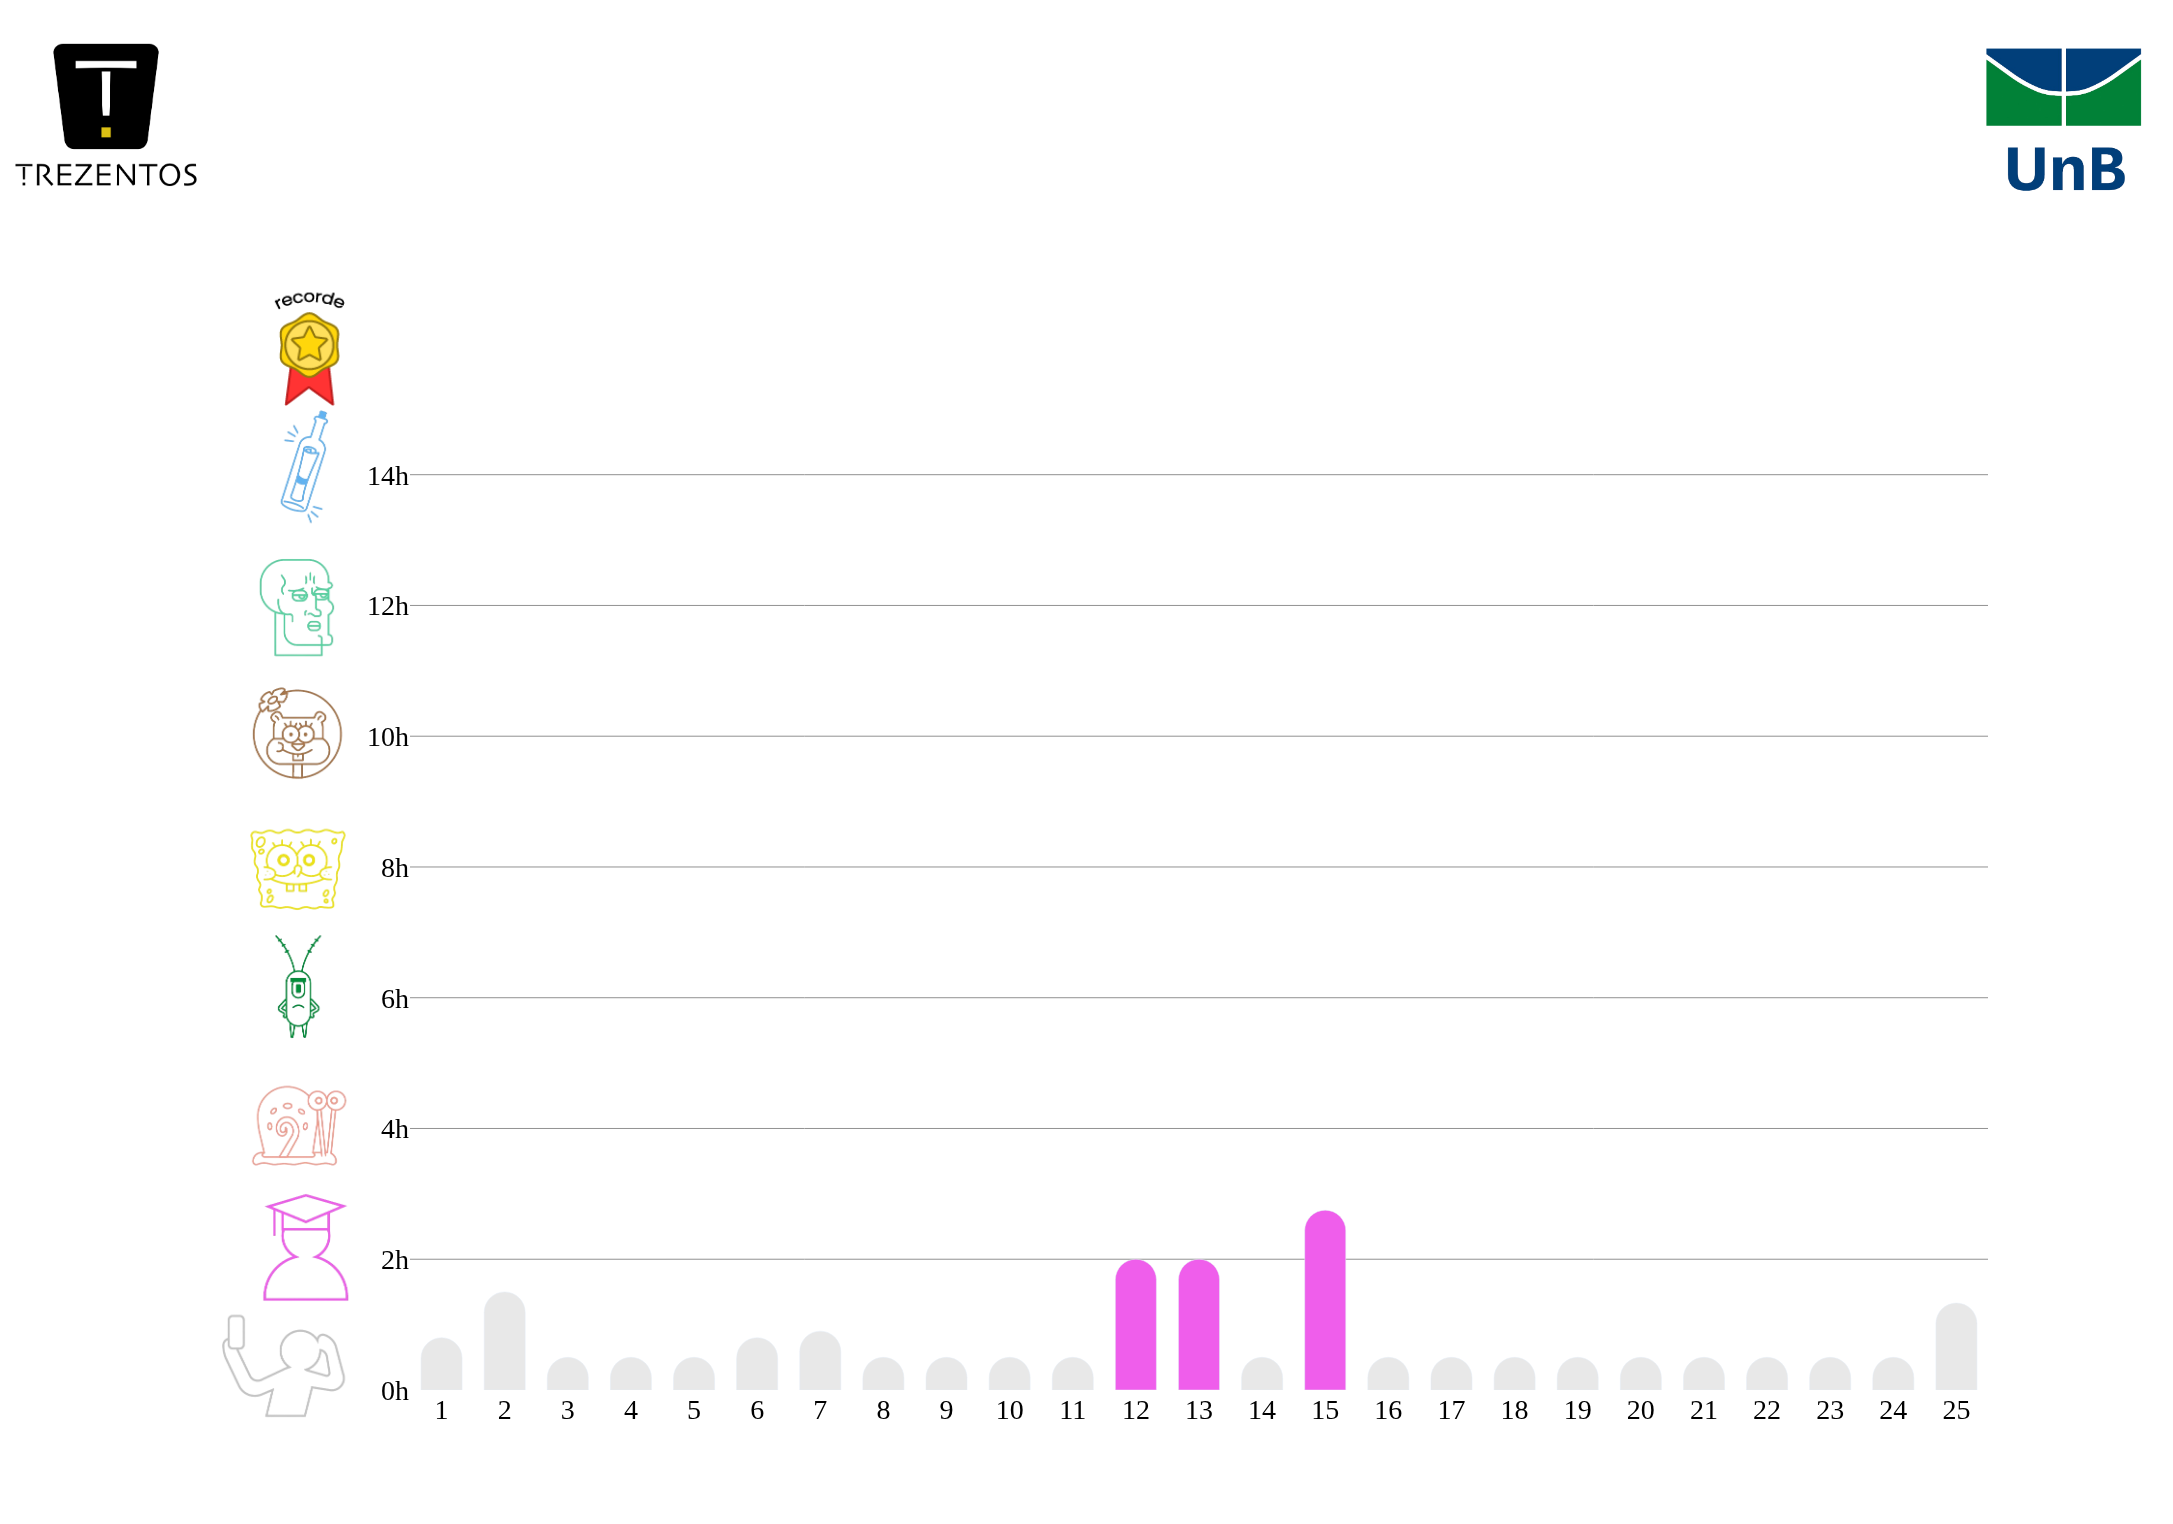
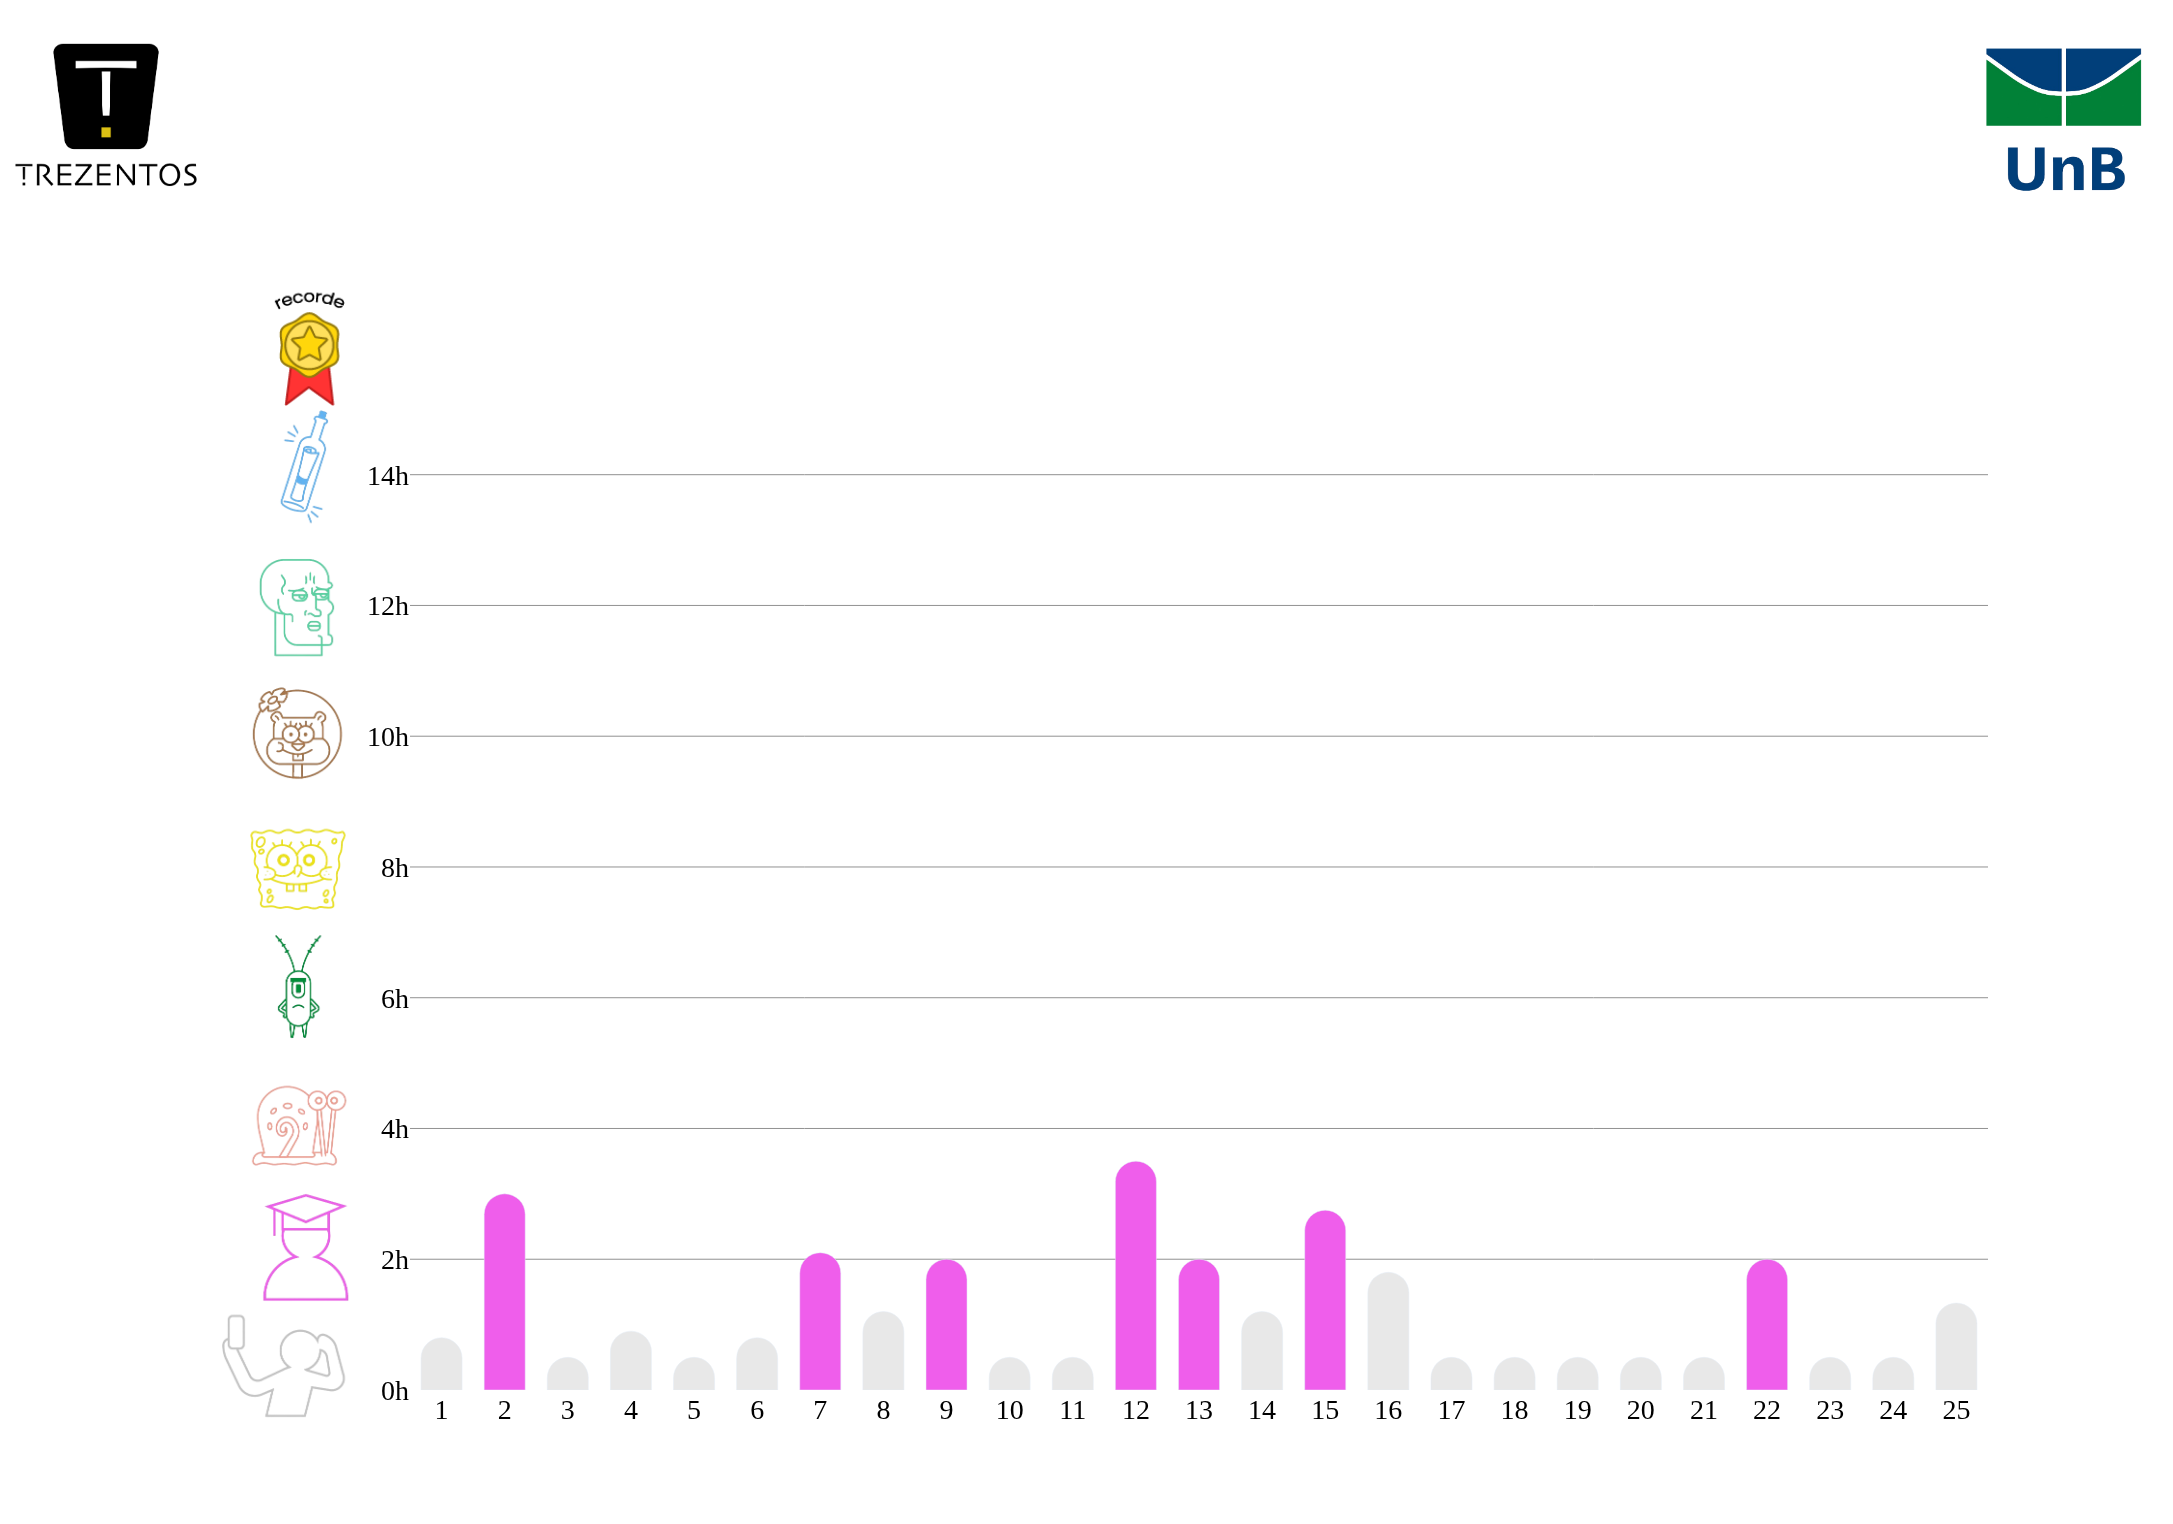
atulizando o codigo para conter o segundo recorde

diff --git a/gerador_bob_esponja/imagem_final_gerador.py b/gerador_bob_esponja/imagem_final_gerador.py
@@ -75,8 +75,11 @@ pos6 = (2040, 220)
 text7 = "Grupo"
 pos7 = (1086, 1375+a)
 
-text8 = "40h"
+text8 = "30h"
 pos8 = (364, 350)
+
+text9 = "40h"
+pos9 = (364, 300)
 
 text_color = "#000000" #preto
 # Adiciona o texto à imagem
@@ -88,6 +91,7 @@ draw.text( pos5 , text5, fill=text_color, font=font5)
 draw.text( pos6 , text6, fill=text_color, font=font5)
 draw.text( pos7 , text7, fill=text_color, font=font3)
 draw.text( pos8 , text8, fill=text_color, font=font4)
+draw.text( pos9 , text9, fill=text_color, font=font4)
 
 # Corta a imagem para a caixa delimitadora
 media = media.crop(media.getbbox())
@@ -122,6 +126,7 @@ base.paste(backside_dias_invertido, (223, 267-altura),backside_dias_invertido)
 base.paste(dias, (coordx, 80-altura),dias)  # ajuste a posição conforme necessário
 base.paste(dias_invertido, (223, 267-altura),dias_invertido) 
 base.paste(linha_tracejada, (410,359), linha_tracejada)
+base.paste(linha_tracejada, (410,309), linha_tracejada)
 # Salva a imagem resultante
 base.save(os.path.join(current_directory, 'images', 'imagem_final.png'))
 base.show()
